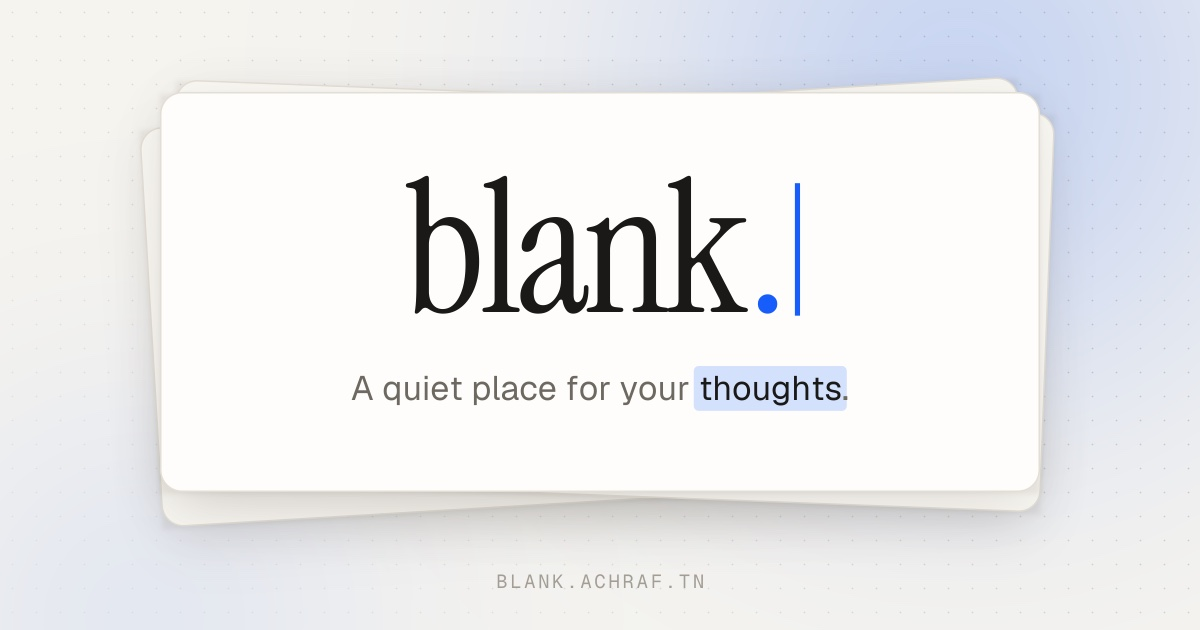
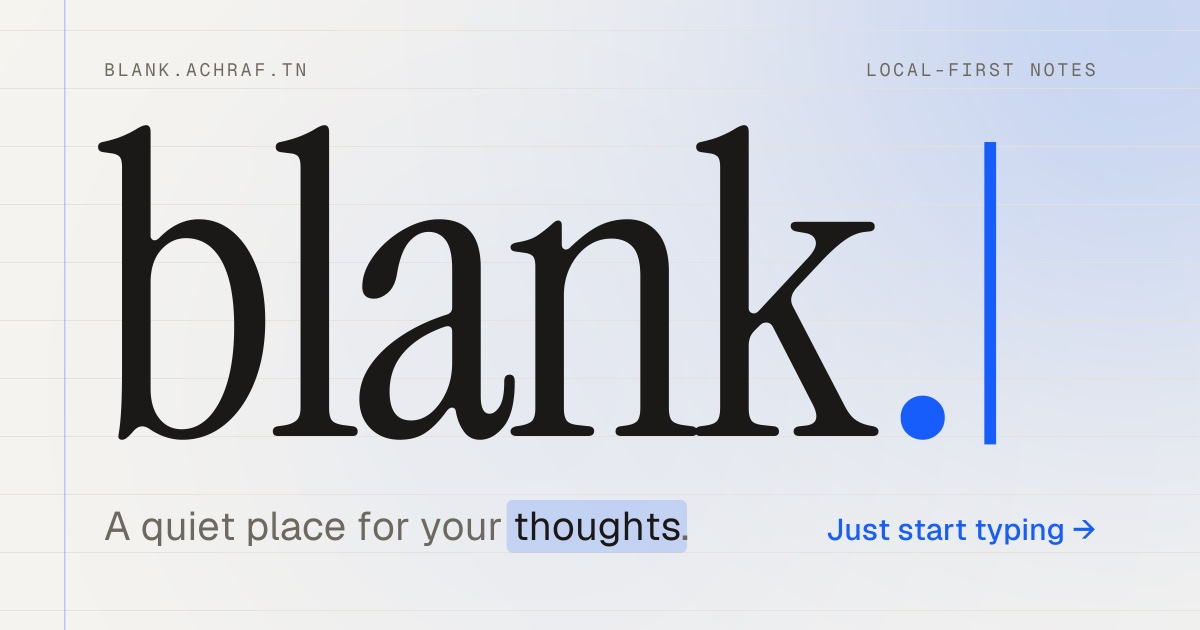
Sort sidebar by creation date with edit time on the right, Esc toggles focus mode, bolder notebook OG card

diff --git a/web/src/components/Sidebar.tsx b/web/src/components/Sidebar.tsx
@@ -155,26 +155,18 @@ export default function Sidebar(p: Props) {
                               active ? "h-5 opacity-100" : "h-0 opacity-0"
                             )}
                           />
-                          <div className="flex items-start gap-2">
-                            <div className="min-w-0 flex-1">
-                              <div className="flex items-center gap-1.5">
-                                {n.pinned && <IPin size={11} filled className="shrink-0 text-accent" />}
-                                <p
-                                  className={cn(
-                                    "truncate text-[13.5px] font-medium transition-colors",
-                                    active ? "text-ink" : "text-ink/85",
-                                    !n.title.trim() && !n.body.trim() && "italic text-faint"
-                                  )}
-                                >
-                                  {displayTitle(n)}
-                                </p>
-                              </div>
-                              <p className="mt-0.5 truncate text-[12px] text-muted">
-                                <span className="text-faint">{relTime(n.updatedAt, now)}</span>
-                                {snip && <span> · {snip}</span>}
-                              </p>
-                            </div>
-                            <div className="flex shrink-0 translate-x-1 items-center gap-0.5 opacity-0 transition-all duration-200 group-hover:translate-x-0 group-hover:opacity-100 max-md:translate-x-0 max-md:opacity-100">
+                          <div className="flex items-center gap-1.5">
+                            {n.pinned && <IPin size={11} filled className="shrink-0 text-accent" />}
+                            <p
+                              className={cn(
+                                "min-w-0 flex-1 truncate text-[13.5px] font-medium transition-colors",
+                                active ? "text-ink" : "text-ink/85",
+                                !n.title.trim() && !n.body.trim() && "italic text-faint"
+                              )}
+                            >
+                              {displayTitle(n)}
+                            </p>
+                            <div className="-my-1 -mr-1 flex shrink-0 translate-x-1 items-center gap-0.5 opacity-0 transition-all duration-200 group-hover:translate-x-0 group-hover:opacity-100 max-md:translate-x-0 max-md:opacity-100">
                               <button
                                 onClick={(e) => (e.stopPropagation(), p.onPin(n.id))}
                                 title={n.pinned ? "Unpin" : "Pin"}
@@ -193,6 +185,12 @@ export default function Sidebar(p: Props) {
                                 <ITrash size={13} />
                               </button>
                             </div>
+                          </div>
+                          <div className="mt-0.5 flex items-baseline gap-3 text-[12px]">
+                            <p className="min-w-0 flex-1 truncate text-muted">{snip}</p>
+                            <span className="shrink-0 text-[11px] tabular-nums text-faint" title={`Edited ${new Date(n.updatedAt).toLocaleString()}`}>
+                              {relTime(n.updatedAt, now)}
+                            </span>
                           </div>
                         </div>
                       </li>

diff --git a/web/src/App.tsx b/web/src/App.tsx
@@ -412,8 +412,9 @@ export default function App() {
           return;
         }
       }
-      if (e.key === "Escape" && focusMode) {
-        setFocusMode(false);
+      if (e.key === "Escape" && !e.isComposing && target.tagName !== "INPUT" && (active || focusMode)) {
+        e.preventDefault();
+        setFocusMode((f) => !f);
         return;
       }
       if (!inField && e.key === "/") {
@@ -469,7 +470,7 @@ export default function App() {
       );
     }
     a.push(
-      { id: "focus", group: "Actions", label: focusMode ? "Exit focus mode" : "Enter focus mode", icon: <IFocus size={14} />, shortcut: `${HOT} F`, keywords: "zen distraction", run: () => setFocusMode((f) => !f) },
+      { id: "focus", group: "Actions", label: focusMode ? "Exit focus mode" : "Enter focus mode", icon: <IFocus size={14} />, shortcut: "Esc", keywords: "zen distraction", run: () => setFocusMode((f) => !f) },
       { id: "theme", group: "Actions", label: theme === "dark" ? "Switch to light" : "Switch to dark", icon: theme === "dark" ? <ISun size={14} /> : <IMoon size={14} />, shortcut: `${HOT} T`, keywords: "theme mode night day appearance", run: () => toggleTheme() },
       { id: "sidebar", group: "Actions", label: sidebar ? "Hide sidebar" : "Show sidebar", icon: <ISidebar size={14} />, shortcut: `${HOT} B`, run: () => setSidebar((s) => !s) },
       { id: "backup", group: "Actions", label: "Back up all notes", hint: "Download a .json file", icon: <IDownload size={14} />, keywords: "export backup json", run: exportAll },
@@ -615,7 +616,7 @@ export default function App() {
                   <>
                     <button
                       onClick={() => setFocusMode((f) => !f)}
-                      title={`Focus mode (${HOT} F)`}
+                      title="Focus mode (Esc)"
                       aria-label={focusMode ? "Exit focus mode" : "Enter focus mode"}
                       className={cn(
                         "grid h-9 w-9 place-items-center rounded-full transition-all hover:bg-ink/5 active:scale-90",

diff --git a/web/src/lib/utils.ts b/web/src/lib/utils.ts
@@ -60,9 +60,9 @@ export function groupOf(n: Note, now = Date.now()) {
   const start = new Date(now);
   start.setHours(0, 0, 0, 0);
   const t = start.getTime();
-  if (n.updatedAt >= t) return "Today";
-  if (n.updatedAt >= t - 86400000) return "Yesterday";
-  if (n.updatedAt >= t - 86400000 * 6) return "This week";
+  if (n.createdAt >= t) return "Today";
+  if (n.createdAt >= t - 86400000) return "Yesterday";
+  if (n.createdAt >= t - 86400000 * 6) return "This week";
   return "Earlier";
 }
 

diff --git a/web/src/hooks/useNotes.ts b/web/src/hooks/useNotes.ts
@@ -12,7 +12,7 @@ function load(): Note[] {
 
 const byRecent = (a: Note, b: Note) => {
   if (!!a.pinned !== !!b.pinned) return a.pinned ? -1 : 1;
-  return b.updatedAt - a.updatedAt;
+  return b.createdAt - a.createdAt;
 };
 
 function initialActive(): string | null {

diff --git a/og/og.go b/og/og.go
@@ -175,39 +175,43 @@ func (c *canvas) png() ([]byte, error) {
 
 func deg(d float64) float64 { return d * math.Pi / 180 }
 
-// Site renders the default card for blank.achraf.tn: a small stack of paper on a dotted desk, the
-// wordmark with its cursor, and "thoughts" selected the way the editor highlights text.
+// Site renders the default card for blank.achraf.tn: a ruled notebook page with a giant wordmark written
+// on one line and the tagline on the next, "thoughts" selected the way the editor highlights text.
 func Site() ([]byte, error) {
 	c, err := newCanvas()
 	if err != nil {
 		return nil, err
 	}
-	c.dots(24)
-	c.glow(Width*0.8, Height*0.14, 250, 0.2, accent)
-	c.glow(Width*0.12, Height*0.98, 190, 0.08, accent)
+	const left, markBase, tagBase, gap = 104, 436.0, 552.0, 58.0
+	c.glow(Width-60, 20, 300, 0.2, accent)
+	c.glow(Width*0.45, Height*0.62, 260, 0.06, accent)
+	c.rules(tagBase, gap, 64)
 
-	const cx, cy, w, h = Width / 2, 292.0, 880.0, 400.0
-	c.sheet(cx-10, cy+10, w, h, deg(-3.4), sheetBack)
-	c.sheet(cx+8, cy+4, w, h, deg(2.2), sheetBack)
-	c.sheet(cx, cy, w, h, 0, sheetFill)
+	m := style{face: c.face(c.f.mono), size: 18, color: muted, tracking: 0.16}
+	top := float32(tagBase - gap*8)
+	c.ts.draw(c.img, m, "BLANK.ACHRAF.TN", left, top-12)
+	tag := "LOCAL-FIRST NOTES"
+	c.ts.draw(c.img, m, tag, Width-left-c.ts.width(m, tag), top-12)
 
-	const size = 184
-	c.wordmark((Width-c.wordmarkWidth(size, true))/2, 312, size, true)
+	size := float32(420)
+	if w := c.wordmarkWidth(size, true); w > Width-left*2 {
+		size *= (Width - left*2) / w
+	}
+	c.wordmark(left-size*0.02, markBase, size, true)
 
-	a := style{face: c.face(c.f.sans), size: 34, color: muted}
-	b := style{face: c.face(c.f.sans), size: 34, color: ink}
+	a := style{face: c.face(c.f.sans), size: 40, color: muted}
+	b := style{face: c.face(c.f.sans), size: 40, color: ink}
 	pre, word := span{a, "A quiet place for your "}, span{b, "thoughts"}
-	line := []span{pre, word, {a, "."}}
-	x, y := (Width-c.spansWidth(line))/2, float32(400)
+	x, y := float32(left), float32(tagBase)-12
 	sx, sw := float64(x+c.ts.width(a, pre.text)), float64(c.ts.width(b, word.text))
 	c.fill(selection, func(ad rasterx.Adder) {
-		roundRectPath(ad, sx+sw/2, float64(y)-34*0.34, sw+10, 34*1.32, 5, 0)
+		roundRectPath(ad, sx+sw/2, float64(y)-40*0.34, sw+12, 40*1.32, 6, 0)
 	})
-	c.drawSpans(line, x, y)
+	c.drawSpans([]span{pre, word, {a, "."}}, x, y)
 
-	m := style{face: c.face(c.f.mono), size: 19, color: faint, tracking: 0.14}
-	label := "BLANK.ACHRAF.TN"
-	c.ts.draw(c.img, m, label, (Width-c.ts.width(m, label))/2, 588)
+	cta := style{face: c.face(c.f.sansMedium), size: 30, color: accent}
+	go_ := "Just start typing →"
+	c.ts.draw(c.img, cta, go_, Width-left-c.ts.width(cta, go_), y)
 	return c.png()
 }
 

diff --git a/og/paper.go b/og/paper.go
@@ -47,6 +47,19 @@ func (c *canvas) dots(spacing int) {
 	}
 }
 
+// rules draws notebook ruling: hairlines every gap px through baseline, and a vertical margin line at marginX.
+func (c *canvas) rules(baseline, gap, marginX float64) {
+	for y := math.Mod(baseline, gap); y < Height; y += gap {
+		for x := 0; x < Width; x++ {
+			c.blend(x, int(y), line, 0.9)
+		}
+	}
+	for y := 0; y < Height; y++ {
+		c.blend(int(marginX), y, accent, 0.28)
+		c.blend(int(marginX)+1, y, accent, 0.14)
+	}
+}
+
 // rectCoverage is how much of a Gaussian-blurred span [-half, half] covers u.
 func rectCoverage(u, half, sigma float64) float64 {
 	k := 1 / (sigma * math.Sqrt2)

diff --git a/README.md b/README.md
@@ -11,7 +11,7 @@ A modern, elegant note-taking application with a local-first approach. Built wit
 - **Local-First Storage**: Notes saved instantly to browser localStorage - no network delays
 - **Minimalist Interface**: Clean, distraction-free writing environment with generous spacing
 - **Instant Auto-save**: Notes are saved immediately as you type (no 2-second delays)
-- **Note Organization**: Sidebar with all your notes, sorted by last modified
+- **Note Organization**: Sidebar with all your notes, newest first by creation date, with the last edit shown on each row
 - **Optional Cloud Sharing**: Generate shareable links with configurable expiration times
 - **Dark Mode**: Toggle between light and dark themes (saved in localStorage)
 - **Download**: Export notes as .txt or .md files
@@ -136,7 +136,7 @@ CREATE TABLE shared_notes (
 4. The first line automatically becomes the note title
 
 ### Organizing Notes
-- All notes appear in the sidebar, sorted by last modified
+- All notes appear in the sidebar, newest first by creation date, with the last edit shown on each row
 - Click any note in the sidebar to switch to it
 - Delete notes using the trash icon in the sidebar
 - Notes persist between browser sessions via localStorage
@@ -158,7 +158,7 @@ App shortcuts use `⌃⌥` (Control+Option) on macOS and `Ctrl+Alt` elsewhere, s
 - `⌘K` / `Ctrl+K`: Command bar (every action: share, copy, export, import, backup, print, theme…)
 - `⌃⌥N`: New note
 - `⌃⌥B`: Toggle sidebar (or click the sidebar's edge)
-- `⌃⌥F`: Focus mode (`Esc` to exit)
+- `Esc` (or `⌃⌥F`): Toggle focus mode
 - `⌃⌥S`: Share the current note
 - `⌃⌥T`: Toggle light/dark theme
 - `/`: Search notes
